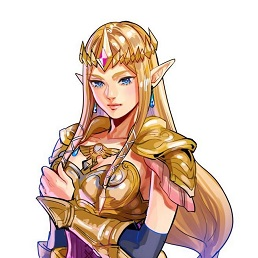
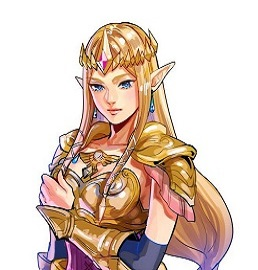
enlevement marge en trop + recentrage imge + creation .bannière

diff --git a/roya-family.html b/roya-family.html
@@ -31,15 +31,16 @@
         </header>
         <div class="portraits">
             <figure>
-                <img src="/images/king.jpg" alt="king" title="the Boss"
-                /><br />/>
+                <img src="/images/king2.jpg" alt="king" title="the Boss" />
                 <figcaption>King Assetes</figcaption>
-                </figure></br>
-                <figure>
+            </figure>
+            <figure>
                 <img src="/images/queen.png" alt="queen" title="the only one" />
-                <figcaption>Queen B</figcaption></figure>
-                
-                <figure><img
+                <figcaption>Queen B</figcaption>
+            </figure>
+
+            <figure>
+                <img
                     src="/images/princess.png"
                     alt="princess"
                     title="Marre d'être sauvée par un chevalier #girl power !"
@@ -47,5 +48,6 @@
                 <figcaption>Princess Diana</figcaption>
             </figure>
         </div>
+        <quote>Être proche de ses amis et encore plus de ses ennemis</quote>
     </body>
 </html>

diff --git a/style.css b/style.css
@@ -5,8 +5,11 @@ h2 {
 }
 
 body {
-    background-color: #f0f0d8;
+    background-image: url("images/sable.jpg");
+    background-repeat: no-repeat;
+    background-size: cover;
 }
+
 .container {
     background-color: #5cc2e0;
     display: flex;
@@ -17,7 +20,6 @@ body {
 }
 
 .nav ul {
-    background-color: #5cc2e0;
     margin: auto;
     background: white;
     list-style: none;
@@ -32,7 +34,7 @@ body {
     text-decoration: none;
     font-weight: bold;
     color: #444d56;
-    font-size: 1.3em;
+    font-size: 1.8em;
 }
 
 .nav .menu {
@@ -43,6 +45,9 @@ body {
     font-family: Apple, Chancery, cursive;
 }
 
+.palais {
+    width: auto;
+}
 .welcome {
     font-family: Apple, Chancery, cursive;
     text-align: center;

diff --git a/family.css b/family.css
@@ -1,7 +1,7 @@
 .portraits {
     padding-top: 80px;
     display: flex;
-    justify-content: space-evenly;
+    justify-content: space-around;
 }
 
 figcaption {
@@ -13,5 +13,9 @@ figcaption {
 }
 
 * {
-    font-family: "Roboto" "Courier New", Courier, monospace;
+    font-family: Apple, Chancery, cursive;
+}
+
+quote {
+    font-size: 1.8em;
 }

diff --git a/assets.html b/assets.html
@@ -31,7 +31,7 @@
         </header>
         <table>
             <caption>
-                The Kingdom's Royal Assets
+                Tableau de nos richesses
             </caption>
             <thead>
                 <tr>

diff --git a/contact.css b/contact.css
@@ -1,0 +1,4 @@
+label {
+    font-size: 1.5em;
+    font-weight: bold;
+}
